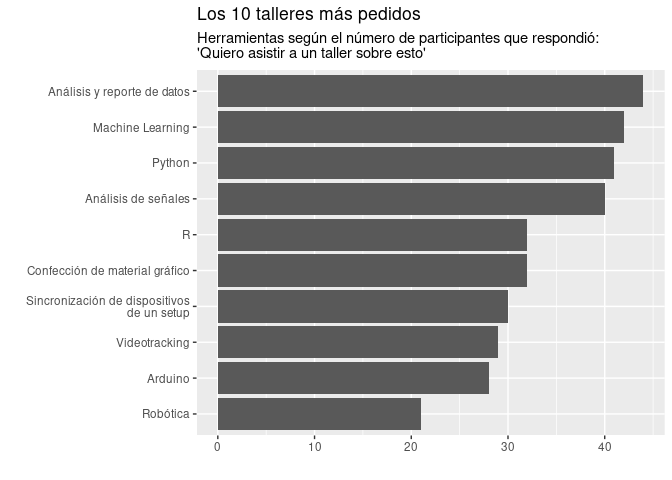
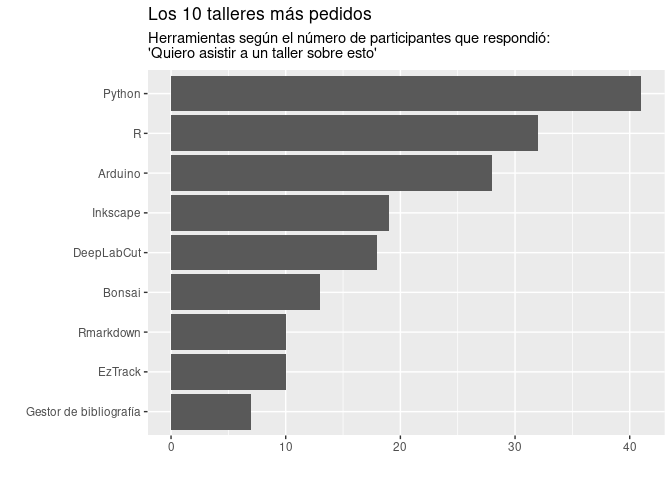
separar herramientas y temas

diff --git a/encuestas/2021-05/2021-05_encuesta.md b/encuestas/2021-05/2021-05_encuesta.md
@@ -8,13 +8,19 @@ adquirir/profundizar conocimiento.
 
 ![](2021-05_encuesta_files/figure-gfm/unnamed-chunk-4-1.png)<!-- -->
 
+Participantes de la encuesta fueron consultados acerca de distintos
+temas y sus ganas de asistir a un taller para adquirir/profundizar
+conocimiento.
+
+![](2021-05_encuesta_files/figure-gfm/unnamed-chunk-5-1.png)<!-- -->
+
 La siguiente figura muestra respuestas a “Encuentro que la falta de
 financiamiento para hardware y software es un factor limitante para mi
 trabajo” o “Encuentro que la falta de capacitación en hardware y
 software es un factor limitante para mi trabajo”.
 
-![](2021-05_encuesta_files/figure-gfm/unnamed-chunk-5-1.png)<!-- -->
+![](2021-05_encuesta_files/figure-gfm/unnamed-chunk-6-1.png)<!-- -->
 
 Este es el segundo ciclo. Tenemos interes de gente nueva?
 
-![](2021-05_encuesta_files/figure-gfm/unnamed-chunk-6-1.png)<!-- -->
+![](2021-05_encuesta_files/figure-gfm/unnamed-chunk-7-1.png)<!-- -->
